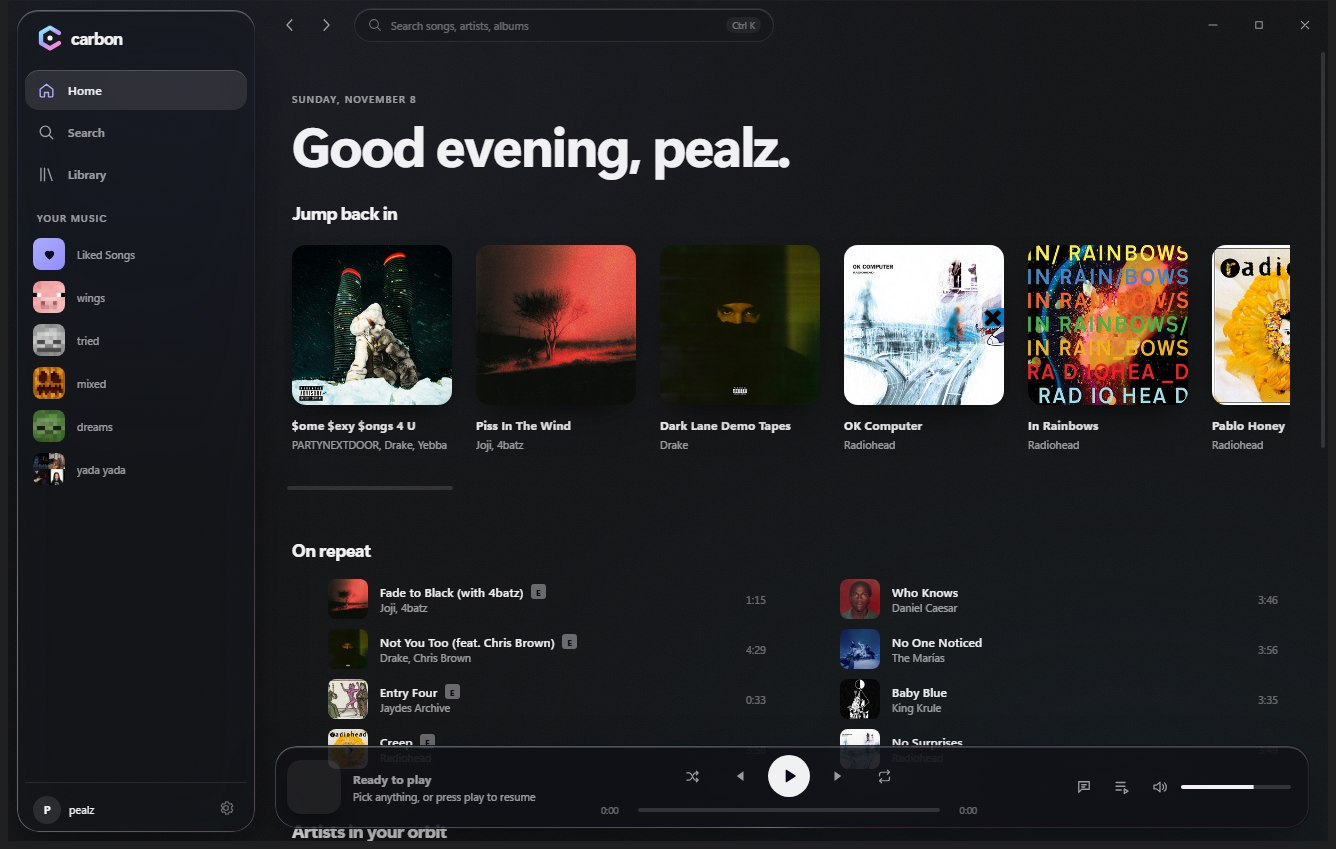
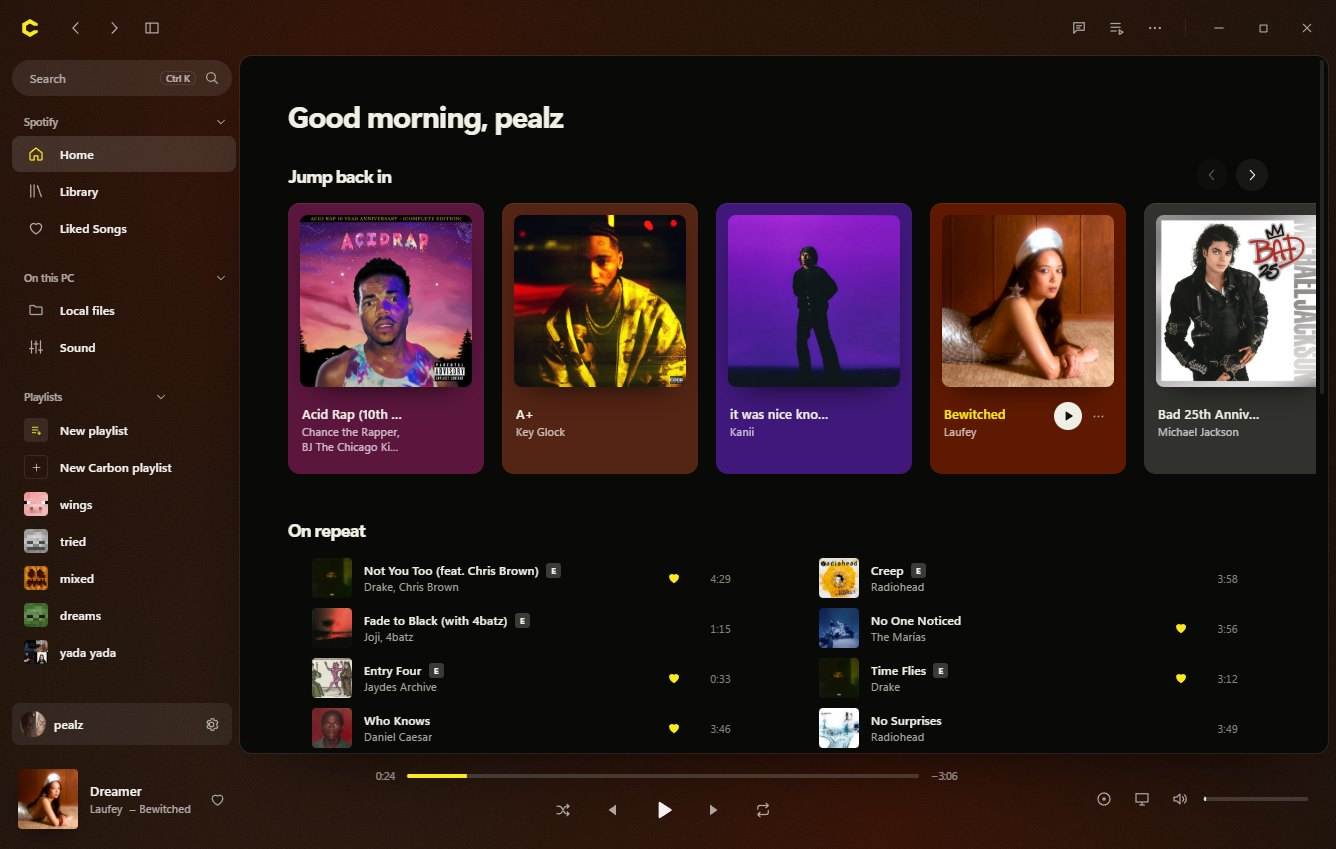
docs: new screenshots and preview images for 0.4.0, mention YouTube Music

diff --git a/website/public/index.html b/website/public/index.html
@@ -3,8 +3,8 @@
 <head>
   <meta charset="utf-8">
   <meta name="viewport" content="width=device-width, initial-scale=1">
-  <title>Carbon: a free, open-source Spotify client for Windows</title>
-  <meta name="description" content="Carbon is a free, open-source Spotify client for Windows 10 and 11, built in Rust. A liquid-glass interface, word-synced lyrics, media keys, Discord and Last.fm, and signed updates.">
+  <title>Carbon: a free, open-source Spotify and YouTube Music client for Windows</title>
+  <meta name="description" content="Carbon is a free, open-source Spotify and YouTube Music client for Windows 10 and 11, built in Rust. A liquid-glass interface, word-synced lyrics, media keys, Discord and Last.fm, and signed updates.">
   <link rel="canonical" href="https://getcarbon.cc/">
   <meta name="theme-color" content="#090907">
   <link rel="icon" href="/favicon.svg" type="image/svg+xml">
@@ -24,16 +24,16 @@
   <meta property="og:type" content="website">
   <meta property="og:site_name" content="Carbon">
   <meta property="og:title" content="Carbon: your music, in liquid glass">
-  <meta property="og:description" content="A free, open-source Spotify client for Windows 10 and 11. Word-synced lyrics, media keys, Discord and Last.fm, signed updates.">
+  <meta property="og:description" content="A free, open-source Spotify and YouTube Music client for Windows 10 and 11. Word-synced lyrics, media keys, Discord and Last.fm, signed updates.">
   <meta property="og:url" content="https://getcarbon.cc/">
-  <meta property="og:image" content="https://getcarbon.cc/assets/og.png?v=3">
+  <meta property="og:image" content="https://getcarbon.cc/assets/og.png?v=4">
   <meta property="og:image:width" content="1200">
   <meta property="og:image:height" content="630">
   <meta property="og:image:alt" content="The Carbon logo beside the Carbon app window on a laptop screen.">
   <meta name="twitter:card" content="summary_large_image">
   <meta name="twitter:title" content="Carbon: your music, in liquid glass">
-  <meta name="twitter:description" content="A free, open-source Spotify client for Windows 10 and 11. Word-synced lyrics, media keys, Discord and Last.fm, signed updates.">
-  <meta name="twitter:image" content="https://getcarbon.cc/assets/og.png?v=3">
+  <meta name="twitter:description" content="A free, open-source Spotify and YouTube Music client for Windows 10 and 11. Word-synced lyrics, media keys, Discord and Last.fm, signed updates.">
+  <meta name="twitter:image" content="https://getcarbon.cc/assets/og.png?v=4">
   <meta name="twitter:image:alt" content="The Carbon logo beside the Carbon app window on a laptop screen.">
 </head>
 <body class="home">
@@ -61,7 +61,7 @@
       <div class="wrap hero__top">
         <h1 class="hero__title" id="hero-title">Your music,<br>in liquid glass.</h1>
         <div class="hero__aside">
-          <p class="hero__lead">Carbon is a free, open-source Spotify client for Windows 10 and 11. Built in Rust, it plays your library itself, fills lyrics word by word and keeps your sign-in on your PC.</p>
+          <p class="hero__lead">Carbon is a free, open-source Spotify and YouTube Music client for Windows 10 and 11. Built in Rust, it plays your library itself, fills lyrics word by word and keeps your sign-in on your PC.</p>
           <div class="cta">
             <a class="btn btn--primary btn--lg" href="https://github.com/pealz1/carbon/releases/latest" data-tilt="10">
               <svg class="ico" viewBox="0 0 24 24" aria-hidden="true"><path d="M12 4v11m0 0-4.5-4.5M12 15l4.5-4.5M5 19.5h14"/></svg>
@@ -87,13 +87,13 @@
           <div class="laptop__lid">
             <div class="laptop__screen">
               <picture class="laptop__shot is-shown" data-shot="home">
-                <source type="image/webp" srcset="/assets/shot-home-760.webp 760w, /assets/shot-home.webp 1336w" sizes="(max-width: 760px) 94vw, 900px">
-                <img src="/assets/shot-home.jpg" width="1336" height="849" fetchpriority="high" decoding="async"
+                <source type="image/webp" srcset="/assets/shot-home-760.webp?v=2 760w, /assets/shot-home.webp?v=2 1336w" sizes="(max-width: 760px) 94vw, 900px">
+                <img src="/assets/shot-home.jpg?v=2" width="1336" height="849" fetchpriority="high" decoding="async"
                      alt="Carbon's home view: a greeting, recently played albums and an On repeat list inside a frosted glass window.">
               </picture>
               <picture class="laptop__shot" data-shot="now">
-                <source type="image/webp" srcset="/assets/shot-now-760.webp 760w, /assets/shot-now.webp 1600w" sizes="(max-width: 760px) 94vw, 900px">
-                <img src="/assets/shot-now.jpg" width="1600" height="906" decoding="async"
+                <source type="image/webp" srcset="/assets/shot-now-760.webp?v=2 760w, /assets/shot-now.webp?v=2 1600w" sizes="(max-width: 760px) 94vw, 900px">
+                <img src="/assets/shot-now.jpg?v=2" width="1600" height="906" decoding="async"
                      alt="Carbon's now playing view: album art beside synced lyrics, with the current line filling word by word.">
               </picture>
             </div>
@@ -382,7 +382,7 @@
       <div class="foot">
         <div class="foot__brand">
           <a class="brand" href="/" aria-label="Carbon home"><img src="/assets/carbon-mark.svg?v=3" width="30" height="30" alt="" loading="lazy"><img class="brand__word" src="/assets/carbon-wordmark.svg?v=3" width="119" height="27" alt="" loading="lazy"></a>
-          <p>A free, open-source Spotify client for Windows.</p>
+          <p>A free, open-source Spotify and YouTube Music client for Windows.</p>
         </div>
         <nav aria-labelledby="f-product">
           <h2 id="f-product">Product</h2>

diff --git a/website/public/privacy.html b/website/public/privacy.html
@@ -22,7 +22,7 @@
   <meta property="og:title" content="Carbon Privacy Policy">
   <meta property="og:description" content="What Carbon collects, what stays on your PC, and your rights. No ads, no analytics, no tracking cookies.">
   <meta property="og:url" content="https://getcarbon.cc/privacy">
-  <meta property="og:image" content="https://getcarbon.cc/assets/og.png?v=3">
+  <meta property="og:image" content="https://getcarbon.cc/assets/og.png?v=4">
   <meta property="og:image:width" content="1200">
   <meta property="og:image:height" content="630">
   <meta property="og:image:alt" content="The Carbon logo beside the Carbon app window on a laptop screen.">

diff --git a/website/public/terms.html b/website/public/terms.html
@@ -22,7 +22,7 @@
   <meta property="og:title" content="Carbon Terms of Use">
   <meta property="og:description" content="The terms for using Carbon, its accounts, donations and getcarbon.cc, in plain language.">
   <meta property="og:url" content="https://getcarbon.cc/terms">
-  <meta property="og:image" content="https://getcarbon.cc/assets/og.png?v=3">
+  <meta property="og:image" content="https://getcarbon.cc/assets/og.png?v=4">
   <meta property="og:image:width" content="1200">
   <meta property="og:image:height" content="630">
   <meta property="og:image:alt" content="The Carbon logo beside the Carbon app window on a laptop screen.">

diff --git a/website/public/setup.html b/website/public/setup.html
@@ -22,7 +22,7 @@
   <meta property="og:title" content="Carbon setup guide: create your Spotify Client ID">
   <meta property="og:description" content="Three steps, about two minutes. Spotify Premium required.">
   <meta property="og:url" content="https://getcarbon.cc/setup">
-  <meta property="og:image" content="https://getcarbon.cc/assets/og.png?v=3">
+  <meta property="og:image" content="https://getcarbon.cc/assets/og.png?v=4">
   <meta property="og:image:width" content="1200">
   <meta property="og:image:height" content="630">
   <meta property="og:image:alt" content="The Carbon logo beside the Carbon app window on a laptop screen.">

diff --git a/website/social/github-social.html b/website/social/github-social.html
@@ -11,7 +11,7 @@
   <div class="copy">
     <p class="brand"><img class="mark" src="../public/assets/carbon-mark.svg" alt=""><img class="word" src="../public/assets/carbon-wordmark.svg" alt="carbon"></p>
     <h1>Your music,<br>in <em>liquid glass.</em></h1>
-    <p class="sub">A free, open-source Spotify client for Windows, built in Rust.</p>
+    <p class="sub">A free, open-source Spotify and YouTube Music client for Windows, built in Rust.</p>
     <p class="url">getcarbon.cc</p>
   </div>
   <div class="laptop"><div class="screen"><img src="../public/assets/shot-home.jpg" alt=""></div></div>

diff --git a/website/social/og.html b/website/social/og.html
@@ -11,7 +11,7 @@
   <div class="copy">
     <p class="brand"><img class="mark" src="../public/assets/carbon-mark.svg" alt=""><img class="word" src="../public/assets/carbon-wordmark.svg" alt="carbon"></p>
     <h1>Your music,<br>in <em>liquid glass.</em></h1>
-    <p class="sub">A free, open-source Spotify client for Windows.</p>
+    <p class="sub">A free, open-source Spotify and YouTube Music client for Windows.</p>
     <p class="url">getcarbon.cc</p>
   </div>
   <div class="laptop"><div class="screen"><img src="../public/assets/shot-home.jpg" alt=""></div></div>

diff --git a/README.md b/README.md
@@ -4,7 +4,7 @@
 
 <br>
 
-**A fast, beautiful Spotify client for Windows, built in Rust.**
+**A fast, beautiful Spotify and YouTube Music client for Windows, built in Rust.**
 
 [![Latest release](https://img.shields.io/github/v/release/pealz1/carbon?style=flat-square&color=fae91d&label=release)](https://github.com/pealz1/carbon/releases/latest)
 [![Downloads](https://img.shields.io/github/downloads/pealz1/carbon/total?style=flat-square&color=33332e)](https://github.com/pealz1/carbon/releases)
@@ -18,7 +18,7 @@
 
 ---
 
-<img src="docs/screenshots/now-playing.jpg" alt="Carbon's now playing view with word-by-word synced lyrics over a blurred album-art background" width="100%">
+<img src="docs/screenshots/now-playing.jpg" alt="Carbon playing an album, with the window tinted in the colours of its cover" width="100%">
 
 ## Why Carbon
 
@@ -26,6 +26,7 @@ Carbon is a native Rust app that plays your music itself, looks like it belongs 
 
 - **Liquid glass interface.** Frosted, refracting panels over light pulled from whatever's playing.
 - **Liquid lyrics.** Time-synced lyrics that fill word by word as they're sung. Click any line to jump there.
+- **YouTube Music too.** Browse, search and play YouTube Music in the same app, kept separate from Spotify. Use either service, or both.
 - **Plays music itself.** Spotify's official Web Playback SDK, right inside Carbon. No Spotify app needed.
 - **Feels native.** Media keys, the Windows media overlay, a tray icon with controls, launch at startup, keep playing when closed.
 - **Discord status.** Shows what you're listening to, with album art and a live progress bar.
@@ -37,7 +38,7 @@ Carbon is a native Rust app that plays your music itself, looks like it belongs 
 - **Phone remote and SDK.** Pair your phone over Wi-Fi with a QR code, or build on Carbon with [`@getcarbon/sdk`](packages/carbon-sdk).
 - **Updates itself.** Signed updates, verified before they install.
 
-<img src="docs/screenshots/home.jpg" alt="Carbon's home view: greeting, recently played albums and top tracks in a frosted glass window" width="100%">
+<img src="docs/screenshots/home.jpg" alt="Carbon's home view: greeting, recently played albums and songs on repeat" width="100%">
 
 ## Get started
 
